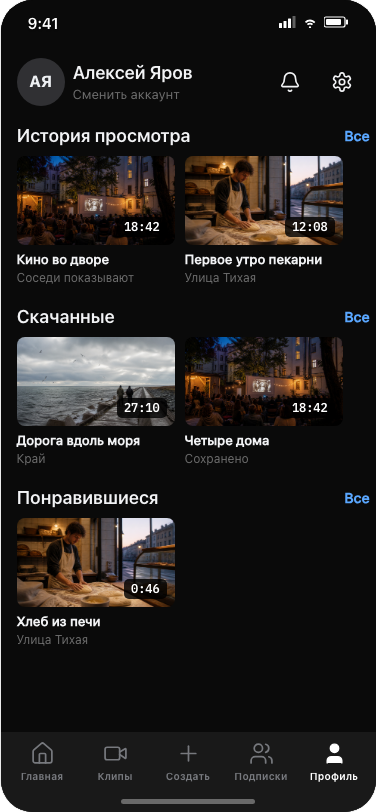
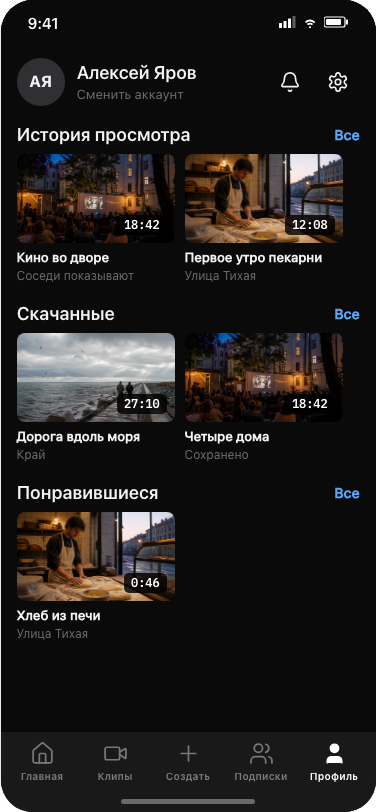
Complete strict Radius UI pass

diff --git a/platform/concepts/radius/styles.css b/platform/concepts/radius/styles.css
@@ -3005,9 +3005,14 @@
   padding-top: 10px !important;
 }
 .screen[data-screen="profile"] .rd-vk-profile > header {
-  grid-template-columns: 48px minmax(0, 1fr) 44px 44px !important;
-  gap: 8px !important;
-  padding: 0 12px 12px 16px !important;
+  grid-template-columns: 48px minmax(0, 1fr) auto !important;
+  gap: 12px !important;
+  padding: 0 16px 12px !important;
+}
+.screen[data-screen="profile"] .rd-profile-actions {
+  display: flex !important;
+  align-items: center !important;
+  gap: 4px !important;
 }
 .screen[data-screen="profile"] .rd-vk-profile > header > .rd-avatar {
   width: 48px !important;
@@ -3033,7 +3038,19 @@
   font-size: 13px !important;
 }
 .screen[data-screen="profile"] .rd-profile-section-title {
+  position: relative !important;
   padding: 0 16px 8px !important;
+}
+.screen[data-screen="profile"] .rd-profile-section-title .rd-section-link {
+  position: absolute !important;
+  top: -11px !important;
+  right: 16px !important;
+  width: 44px !important;
+  height: 44px !important;
+  min-width: 44px !important;
+  min-height: 44px !important;
+  margin: 0 !important;
+  justify-content: flex-end !important;
 }
 .screen[data-screen="profile"] .rd-profile-section-title h2 {
   font-size: 18px !important;

diff --git a/platform/concepts/radius/screens/profile.html b/platform/concepts/radius/screens/profile.html
@@ -7,11 +7,13 @@
         <h1>Алексей Яров</h1>
         <p>Сменить аккаунт</p>
       </div>
-      <div class="rd-hit">
-        <svg class="rd-icon"><use href="#i-bell" /></svg>
-      </div>
-      <div class="rd-hit">
-        <svg class="rd-icon"><use href="#i-settings" /></svg>
+      <div class="rd-profile-actions">
+        <div class="rd-hit">
+          <svg class="rd-icon"><use href="#i-bell" /></svg>
+        </div>
+        <div class="rd-hit">
+          <svg class="rd-icon"><use href="#i-settings" /></svg>
+        </div>
       </div>
     </header>
     <section class="rd-profile-shelf">
